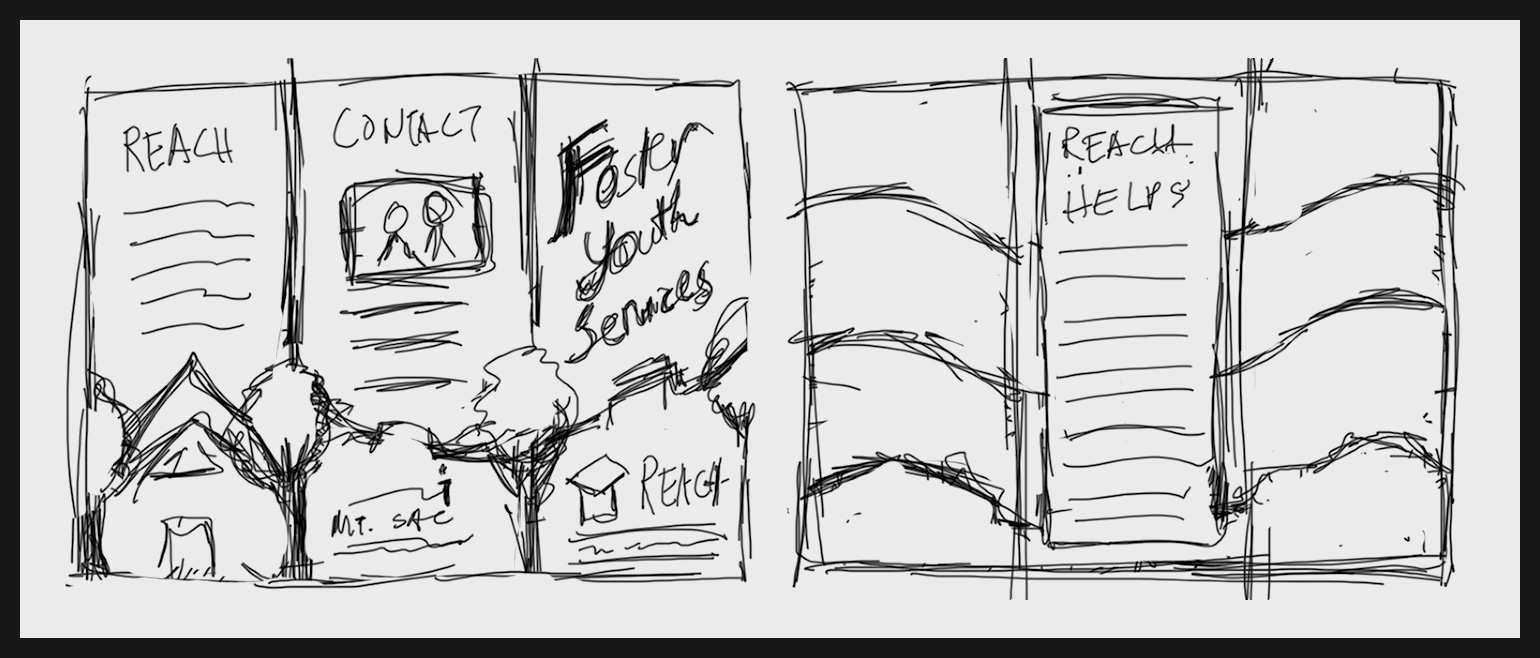
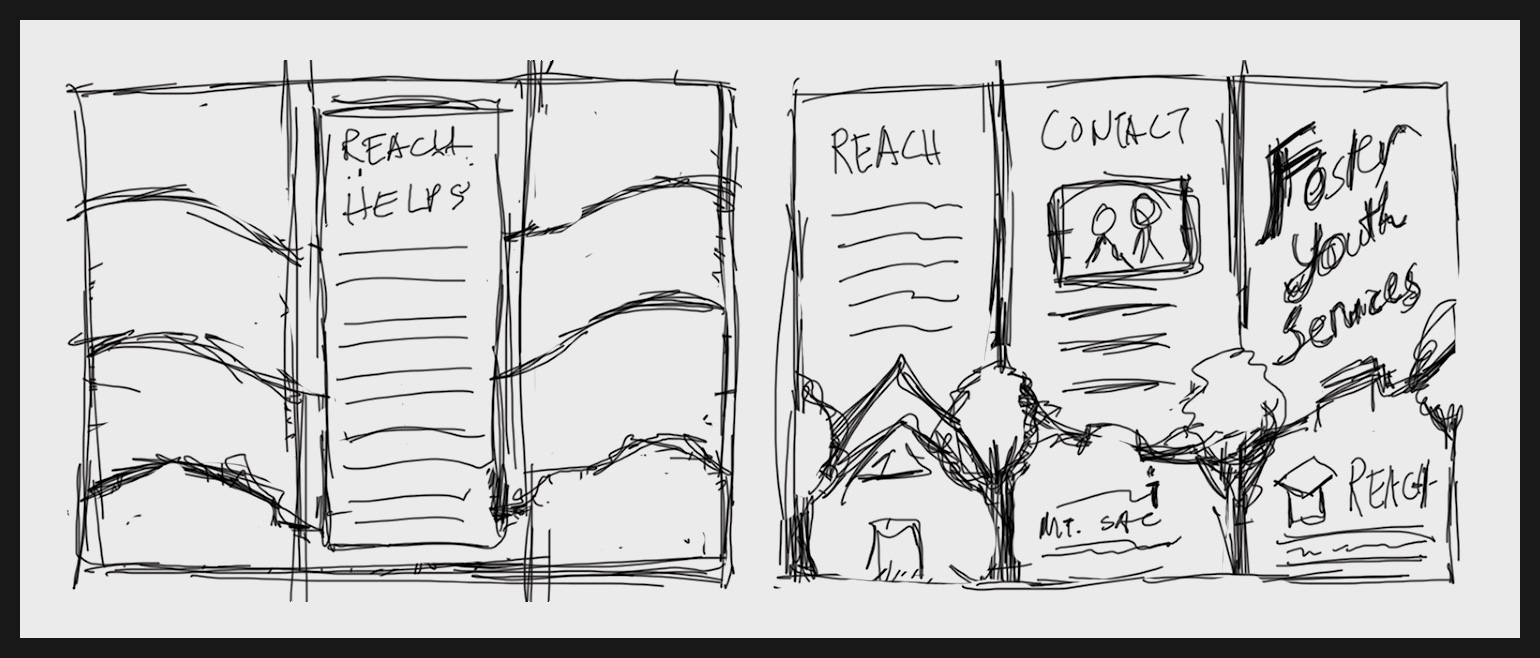
process page

Changed region(s): [[0.0312, 0.0912, 0.9662, 0.9119]]

diff --git a/css/main.min.css b/css/main.min.css
@@ -1,1 +1,1 @@
-body{font-family:"mr-eaves-xl-modern";color:#181818;background:#f9f9f9;overflow-y:scroll;}@media(max-width:480px){body{font-size:1.5em;zoom:.65;}}.cf:after{content:"";display:table;clear:both;}#preload_container{width:100%;height:100vh;position:fixed;top:0;background:#f4f4f4;}header{background:#f9f9f9;}h1{margin:0;font-family:"mr-eaves-xl-modern";font-size:2.25rem;line-height:1em;}.outer{min-width:480px;}.inner{max-width:1400px;margin:0 auto;padding:40px;}.section_header_container{letter-spacing:1px;}.section_header_container .section_header_left{float:left;width:50%;}.section_header_container .section_header_right{float:right;width:50%;text-align:right;}.gallery{list-style:none;padding:0 30px;}.gallery li{display:block;float:left;width:calc(50% - 40px);cursor:zoom-in;margin:16px;padding:2px;background:#e0e0e0;}.gallery img{display:block;width:100%;}.gallery img:hover{opacity:.5;-webkit-transition:opacity .5s ease 0s;-o-transition:opacity .15s ease 0s;transition:opacity .15s ease 0s;}@media(min-width:960px){.gallery-4 li{width:calc(25% - 40px);}}#featured{background:#181818;}#featured .inner{padding:40px 40px 0;}#featured .featured_image{background-position:center;background-repeat:no-repeat;background-image:url('../img/reach_brochure/preview.jpg');min-height:540px;}@media(orientation:portrait){#featured .featured_image{width:100%;background-size:cover;}}@media(orientation:landscape){#featured .featured_image{height:80vh;background-size:contain;}}#featured .featured_image img{display:block;visibility:hidden;}@media(orientation:portrait){#featured .featured_image img{width:100%;}}@media(orientation:landscape){#featured .featured_image img{height:80vh;}}#featured .featured_link{padding:0 20px 0 2px;line-height:1em;display:inline-block;background:#f9f9f9;text-decoration:none;}#featured .featured_link:hover{color:#f9f9f9;background:#3d484e;}#featured .section_header_container{color:#f9f9f9;}#work{background:#e0e0e0;}#work .inner{padding:40px 40px 80px;}#work_gallery{margin-top:40px;}#work_gallery li{background:#bababa;}footer .inner{padding:0 40px;}footer .section_header_left{line-height:80px;letter-spacing:1px;}footer .section_header_left .title{display:inline-block;margin:0;vertical-align:middle;font-size:1.25em;color:#181818;text-decoration:none;}footer .section_header_left .title:hover{color:#999;}footer .section_header_right{line-height:80px;}footer .nav-social a{display:inline-block;vertical-align:middle;height:32px;text-decoration:none;color:#181818;}footer .nav-social a:hover{color:#999;}footer .nav-social a i{vertical-align:top;}#page_process{background-image:url('../img/reach_brochure/bg.jpg');background-attachment:fixed;background-size:cover;background-position:center center;}#page_process p,#page_process li{font-size:1.12em;}#page_process p{margin:60px 0;}#process_hero{background-color:#7eafc8;background-image:url('../img/reach_brochure/brochure_top.jpg');background-size:contain;background-repeat:no-repeat;background-position:center;min-width:480px;}#process_hero img{display:block;width:100%;max-height:500px;visibility:hidden;}#process_main{padding-top:80px;background:rgba(126,175,200,.95);}#background_display{height:80vh;}.moodboard{display:block;max-width:100%;}.process_section{background-image:url('../img/bg_line.jpg');background-repeat:repeat-y;background-position:center;margin-bottom:160px;}.process_section .process_section_title{text-align:center;}.process_section .process_section_title h2{display:inline-block;padding:25px;font-weight:300;background:#f9f9f9;letter-spacing:5px;font-size:1.125em;margin:0;}.process_outer{width:100%;}.process_outer .process_inner{background:#f4f4f4;box-shadow:rgba(0,0,0,.2) 0 5px 30px;}.process_outer.left{margin-top:80px;max-width:800px;float:left;}.process_outer.right{margin-top:80px;max-width:800px;float:right;}.process_outer.final{margin-top:160px;float:left;}.process_header{letter-spacing:1px;font-size:1em;font-weight:800;}.process_header .process_step{float:left;padding:20px;background:#242424;color:#f9f9f9;}.process_header .process_title{width:50%;float:right;text-align:right;margin:20px;}.process_content{padding:0 40px 80px;}.process_return_link_container{text-align:center;margin:0 auto 120px;}.process_return_link_large{display:inline-block;padding:20px;border:2px solid #f9f9f9;color:#f9f9f9;text-decoration:none;letter-spacing:2px;}.process_return_link_large:hover{background:#f9f9f9;color:#7eafc8;}.process_return_link_small{font-size:.85em;display:inline-block;padding:8px 8px 6px 10px;margin-bottom:2em;text-decoration:none;border:1px solid #bababa;color:#bababa;letter-spacing:1px;}.process_return_link_small:hover{background:#bababa;color:#f9f9f9;}
+body{font-family:"mr-eaves-xl-modern";color:#181818;background:#f9f9f9;overflow-y:scroll;}@media(max-width:480px){body{font-size:1.5em;zoom:.65;}}.cf:after{content:"";display:table;clear:both;}#preload_container{width:100%;height:100vh;position:fixed;top:0;background:#f4f4f4;}header{background:#f9f9f9;}h1{margin:0;font-family:"mr-eaves-xl-modern";font-size:2.25rem;line-height:1em;}.outer{min-width:480px;}.inner{max-width:1400px;margin:0 auto;padding:40px;}.section_header_container{letter-spacing:1px;}.section_header_container .section_header_left{float:left;width:50%;}.section_header_container .section_header_right{float:right;width:50%;text-align:right;}.gallery{list-style:none;padding:0 20px;}.gallery li{display:block;float:left;width:calc(50% - 40px);cursor:zoom-in;margin:16px;padding:2px;background:#e0e0e0;}.gallery img{display:block;width:100%;}.gallery img:hover{opacity:.5;-webkit-transition:opacity .5s ease 0s;-o-transition:opacity .15s ease 0s;transition:opacity .15s ease 0s;}@media(min-width:960px){.gallery-4 li{width:calc(25% - 40px);}}#featured{background:#181818;}#featured .inner{padding:40px 40px 0;}#featured .featured_image{background-position:center;background-repeat:no-repeat;background-image:url('../img/reach_brochure/preview.jpg');min-height:540px;}@media(orientation:portrait){#featured .featured_image{width:100%;background-size:cover;}}@media(orientation:landscape){#featured .featured_image{height:80vh;background-size:contain;}}#featured .featured_image img{display:block;visibility:hidden;}@media(orientation:portrait){#featured .featured_image img{width:100%;}}@media(orientation:landscape){#featured .featured_image img{height:80vh;}}#featured .featured_link{padding:0 20px 0 2px;line-height:1em;display:inline-block;background:#f9f9f9;text-decoration:none;}#featured .featured_link:hover{color:#f9f9f9;background:#3d484e;}#featured .section_header_container{color:#f9f9f9;}#work{background:#e0e0e0;}#work .inner{padding:40px 40px 80px;}#work_gallery{margin-top:40px;}#work_gallery li{background:#bababa;}footer .inner{padding:0 40px;}footer .section_header_left{line-height:80px;letter-spacing:1px;}footer .section_header_left .title{display:inline-block;margin:0;vertical-align:middle;font-size:1.25em;color:#181818;text-decoration:none;}footer .section_header_left .title:hover{color:#999;}footer .section_header_right{line-height:80px;}footer .nav-social a{display:inline-block;vertical-align:middle;height:32px;text-decoration:none;color:#181818;}footer .nav-social a:hover{color:#999;}footer .nav-social a i{vertical-align:top;}#page_process{background-image:url('../img/reach_brochure/bg.jpg');background-attachment:fixed;background-size:cover;background-position:center center;}#page_process p,#page_process li{font-size:1.12em;}#page_process p{margin:60px 0;}#process_hero{background-color:#7eafc8;background-image:url('../img/reach_brochure/brochure_top.jpg');background-size:contain;background-repeat:no-repeat;background-position:center;min-width:480px;}#process_hero img{display:block;width:100%;max-height:500px;visibility:hidden;}#process_main{padding-top:80px;background:rgba(126,175,200,.95);}#background_display{height:80vh;}.moodboard{display:block;max-width:100%;}.process_section{background-image:url('../img/bg_line.jpg');background-repeat:repeat-y;background-position:center;margin-bottom:160px;}.process_section .process_section_title{text-align:center;}.process_section .process_section_title h2{display:inline-block;padding:25px;font-weight:300;background:#f9f9f9;letter-spacing:5px;font-size:1.125em;margin:0;}.process_outer{width:100%;}.process_outer .process_inner{background:#f4f4f4;box-shadow:rgba(0,0,0,.2) 0 5px 30px;}.process_outer.left{margin-top:80px;max-width:800px;float:left;}.process_outer.right{margin-top:80px;max-width:800px;float:right;}.process_outer.final{margin-top:160px;float:left;}.process_header{letter-spacing:1px;font-size:1em;font-weight:800;}.process_header .process_step{float:left;padding:20px;background:#242424;color:#f9f9f9;}.process_header .process_title{width:50%;float:right;text-align:right;margin:20px;}.process_content{padding:0 40px 56px;}.process_return_link_large_container{text-align:center;margin:0 auto 120px;}.process_return_link_large{display:inline-block;padding:20px;border:2px solid #f9f9f9;color:#f9f9f9;text-decoration:none;letter-spacing:2px;}.process_return_link_large:hover{background:#f9f9f9;color:#7eafc8;}.process_return_link_small{font-size:1em;display:inline-block;padding:8px 8px 6px 10px;margin:10px;text-decoration:none;border:1px solid #f9f9f9;color:#f9f9f9;letter-spacing:1px;position:absolute;}.process_return_link_small:hover{background:#f9f9f9;color:#7eafc8;}

diff --git a/reach-brochure.html b/reach-brochure.html
@@ -33,11 +33,11 @@
 
 	<div id="page_process">
 		<div id="process_hero">
+			<a class="process_return_link_small" href="index.html">Back to Home</a>
 			<img src="img/reach_brochure/brochure_top.jpg" />
 		</div>
 		<header class="outer">
 			<div class="inner">
-				<a  class="process_return_link_small" href="index.html">Back to Home</a>
 				<h1>REACH Brochure Revision</h1>
 				<br />
 				<h3>Requirements and Goals</h3>
@@ -72,13 +72,13 @@
 										I begin the design process by sketching general content layout and overarching movement.
 									</p>
 
-									<ul id="featured_photo_gallery" class="gallery cf">
+									<ul id="process_sketch_gallery" class="gallery cf">
 										<li data-src="img/reach_brochure/sketch/sketch.jpg"
-											data-sub-html="Rough Sketch">
+											data-sub-html="Rough Compositional Sketch">
 											<img src="img/reach_brochure/sketch/sketch_640.jpg" />
 										</li>
 										<li data-src="img/reach_brochure/sketch/sketch2.jpg"
-											data-sub-html="Developed Sketch">
+											data-sub-html="Developed Compositional Sketch">
 											<img src="img/reach_brochure/sketch/sketch2_640.jpg" />
 										</li>
 									</ul>
@@ -121,15 +121,15 @@
 								</div>
 								<div class="process_content cf">
 									<p>
-										I designed a custom typographic asset for their brand.
+										I designed a custom typographic asset for the brochure and future use.
 									</p>
-									<ul id="featured_photo_gallery" class="gallery cf">
+									<ul id="process_type_gallery" class="gallery cf">
 										<li data-src="img/reach_brochure/typography/type_sketch.jpg"
-											data-sub-html="REACH Counseling">
+											data-sub-html="Custom Typography Sketch">
 											<img src="img/reach_brochure/typography/type_sketch_640.jpg" />
 										</li>
 										<li data-src="img/reach_brochure/typography/typography.jpg"
-											data-sub-html="REACH Awards Stage">
+											data-sub-html="Custom Typography Finished">
 											<img src="img/reach_brochure/typography/typography_640.jpg" />
 										</li>
 									</ul>
@@ -146,7 +146,7 @@
 								<div class="process_content cf">
 
 									<p>I took photos at various REACH events. The focus was to capture genuine, positive human interaction.</p>
-									<ul id="featured_photo_gallery" class="gallery cf">
+									<ul id="process_photo_gallery" class="gallery cf">
 										<li data-src="img/reach_brochure/photos/counsel.jpg"
 											data-sub-html="REACH Counseling">
 											<img src="img/reach_brochure/photos/counsel_640.jpg" />
@@ -187,16 +187,16 @@
 								</div>
 								<div class="process_content cf">
 									<p>
-										I create a rough for initial approval.
+										I created a rough draft for initial approval. 
 									</p>
-									<ul id="featured_photo_gallery" class="gallery cf">
-										<li data-src="img/reach_brochure/typography/type_sketch.jpg"
-											data-sub-html="REACH Counseling">
-											<img src="img/reach_brochure/typography/type_sketch_640.jpg" />
+									<ul id="process_prototype_gallery" class="gallery cf">
+										<li data-src="img/reach_brochure/prototype/rough_inside.jpg"
+											data-sub-html="REACH Brochure - Rough Inside">
+											<img src="img/reach_brochure/prototype/rough_inside_480.jpg" />
 										</li>
-										<li data-src="img/reach_brochure/typography/typography.jpg"
-											data-sub-html="REACH Awards Stage">
-											<img src="img/reach_brochure/typography/typography_640.jpg" />
+										<li data-src="img/reach_brochure/prototype/rough_outside.jpg"
+											data-sub-html="REACH Brochure - Rough Outside">
+											<img src="img/reach_brochure/prototype/rough_outside_480.jpg" />
 										</li>
 									</ul>
 								</div>
@@ -211,8 +211,22 @@
 								</div>
 								<div class="process_content cf">
 
-									<p>I took photos at various REACH events. The focus was to capture genuine, positive human interaction.</p>
-
+									<p>
+										After the roughs were approved, I moved began working and refining the final version.
+										<!--Upon discovering much of the organization's photos were of low resolution, I adapted the design inside of the brochure
+										to that of a collage. In the end, this was a better design choice as the initial design's wavy borders pulled away from
+										the effectiveness of the photos.-->
+									</p>
+									<ul id="process_refine_gallery" class="gallery cf">
+										<li data-src="img/reach_brochure/refine/refine_inside.jpg"
+											data-sub-html="REACH Brochure - Refine Inside">
+											<img src="img/reach_brochure/refine/refine_inside_480.jpg" />
+										</li>
+										<li data-src="img/reach_brochure/refine/refine_outside.jpg"
+											data-sub-html="REACH Brochure - Refine Outside">
+											<img src="img/reach_brochure/refine/refine_outside_480.jpg" />
+										</li>
+									</ul>
 
 
 								</div>
@@ -227,14 +241,14 @@
 									<div class="process_title">Final Product</div>
 								</div>
 								<div class="process_content cf">
-									<ul id="featured_photo_gallery" class="gallery cf">
-										<li data-src="img/reach_brochure/typography/type_sketch.jpg"
-											data-sub-html="REACH Counseling">
-											<img src="img/reach_brochure/typography/type_sketch_640.jpg" />
+									<ul id="process_final_gallery" class="gallery cf">
+										<li data-src="img/reach_brochure/final/final_inside.jpg"
+											data-sub-html="REACH Brochure - Final Inside">
+											<img src="img/reach_brochure/final/final_inside_640.jpg" />
 										</li>
-										<li data-src="img/reach_brochure/typography/typography.jpg"
-											data-sub-html="REACH Awards Stage">
-											<img src="img/reach_brochure/typography/typography_640.jpg" />
+										<li data-src="img/reach_brochure/final/final_outside.jpg"
+											data-sub-html="REACH Brochure - Final Outside">
+											<img src="img/reach_brochure/final/final_outside_640.jpg" />
 										</li>
 									</ul>
 								</div>
@@ -243,7 +257,7 @@
 
 					</section>
 
-					<div class="process_return_link_container">
+					<div class="process_return_link_large_container">
 						<a class="process_return_link_large" href="index.html">Back to Home
 						</a>
 					</div>

diff --git a/css/main.css b/css/main.css
@@ -65,7 +65,7 @@ h1 {
 /*--------------------------------------------*/
 .gallery {
   list-style: none;
-  padding: 0 30px;
+  padding: 0 20px;
 }
 .gallery li {
   display: block;
@@ -296,9 +296,9 @@ footer .nav-social a i {
   margin: 20px;
 }
 .process_content {
-  padding: 0 40px 80px;
+  padding: 0 40px 56px;
 }
-.process_return_link_container {
+.process_return_link_large_container {
   text-align: center;
   margin: 0 auto 120px;
 }
@@ -315,16 +315,17 @@ footer .nav-social a i {
   color: #7eafc8;
 }
 .process_return_link_small {
-  font-size: .85em;
+  font-size: 1em;
   display: inline-block;
   padding: 8px 8px 6px 10px;
-  margin-bottom: 2em;
+  margin: 10px;
   text-decoration: none;
-  border: 1px solid #bababa;
-  color: #bababa;
+  border: 1px solid #f9f9f9;
+  color: #f9f9f9;
   letter-spacing: 1px;
+  position: absolute;
 }
 .process_return_link_small:hover {
-  background: #bababa;
-  color: #f9f9f9;
+  background: #f9f9f9;
+  color: #7eafc8;
 }

diff --git a/css/main.less b/css/main.less
@@ -117,8 +117,7 @@ h2
 .gallery
 {
 	list-style: none;
-	padding:0 30px;
-
+	padding:0 20px;
 	li
 	{		
 		display:block;
@@ -422,10 +421,10 @@ footer
 
 .process_content
 {
-	padding: 0 40px 80px;
+	padding: 0 40px 56px;
 }
 
-.process_return_link_container
+.process_return_link_large_container
 {
 	text-align:center;
 	
@@ -448,21 +447,22 @@ footer
 
 }
 
+
 .process_return_link_small
 {
-	font-size:.85em;
+	font-size:1em;
 	display:inline-block;
 	padding:8px 8px 6px 10px;
-	margin-bottom:2em;
+	margin:10px;
 	text-decoration:none;
-	border:1px solid @gray;
-	color:@gray;
+	border:1px solid @white;
+	color:@white;
 	letter-spacing: 1px;
+	position:absolute;
 	&:hover
 	{
-		background:@gray;
-		color:@white;
+		background:@white;
+		color:rgba(126, 175, 200, 1);
 	}
-
 
 }

diff --git a/js/app.js b/js/app.js
@@ -19,7 +19,26 @@ function preload() {
 
 function initializeGallery()
 {
-	$('#work_gallery').lightGallery();
+	//Home Page
+	if ($('#work_gallery').length)
+	{
+		$('#work_gallery').lightGallery();
+	}
 
-	$('#featured_photo_gallery').lightGallery();
+
+	//Check for process page
+	if( $('#page_process').length ) 
+	{
+		$('#process_sketch_gallery').lightGallery();
+
+		$('#process_type_gallery').lightGallery();
+
+		$('#process_photo_gallery').lightGallery();
+
+		$('#process_prototype_gallery').lightGallery();
+
+		$('#process_refine_gallery').lightGallery();
+
+		$('#process_final_gallery').lightGallery();
+	}
 }
